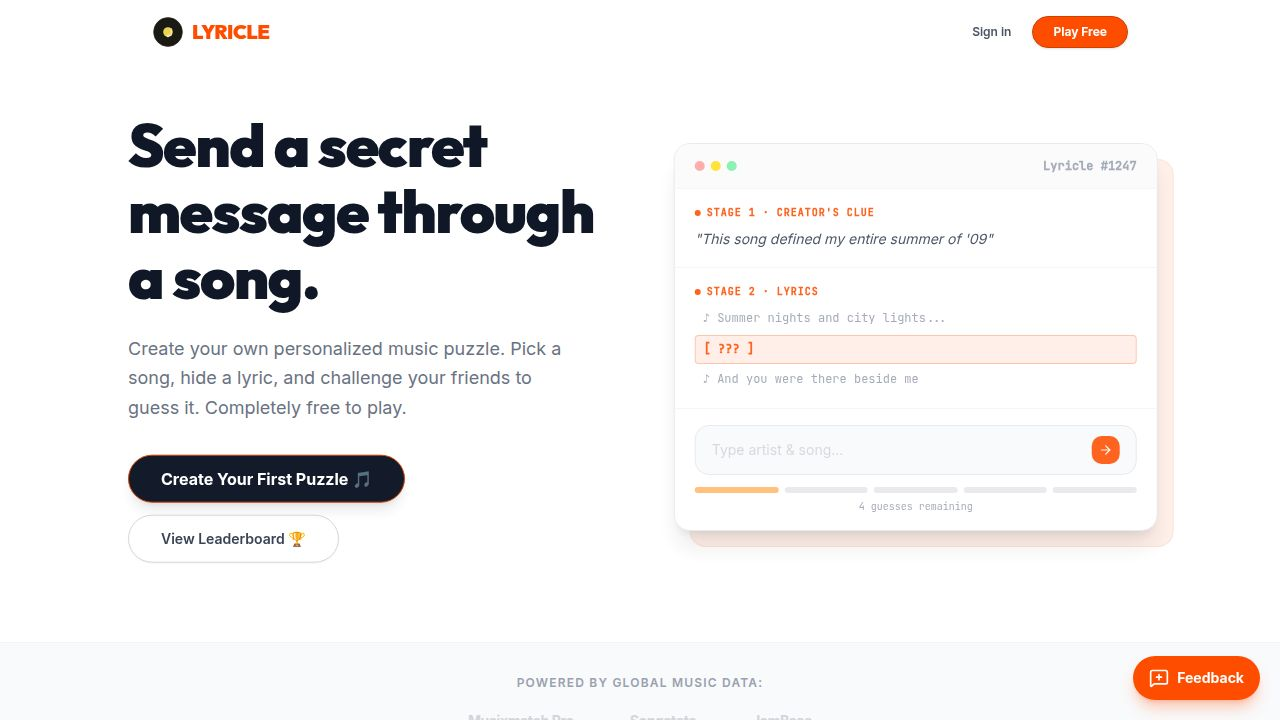
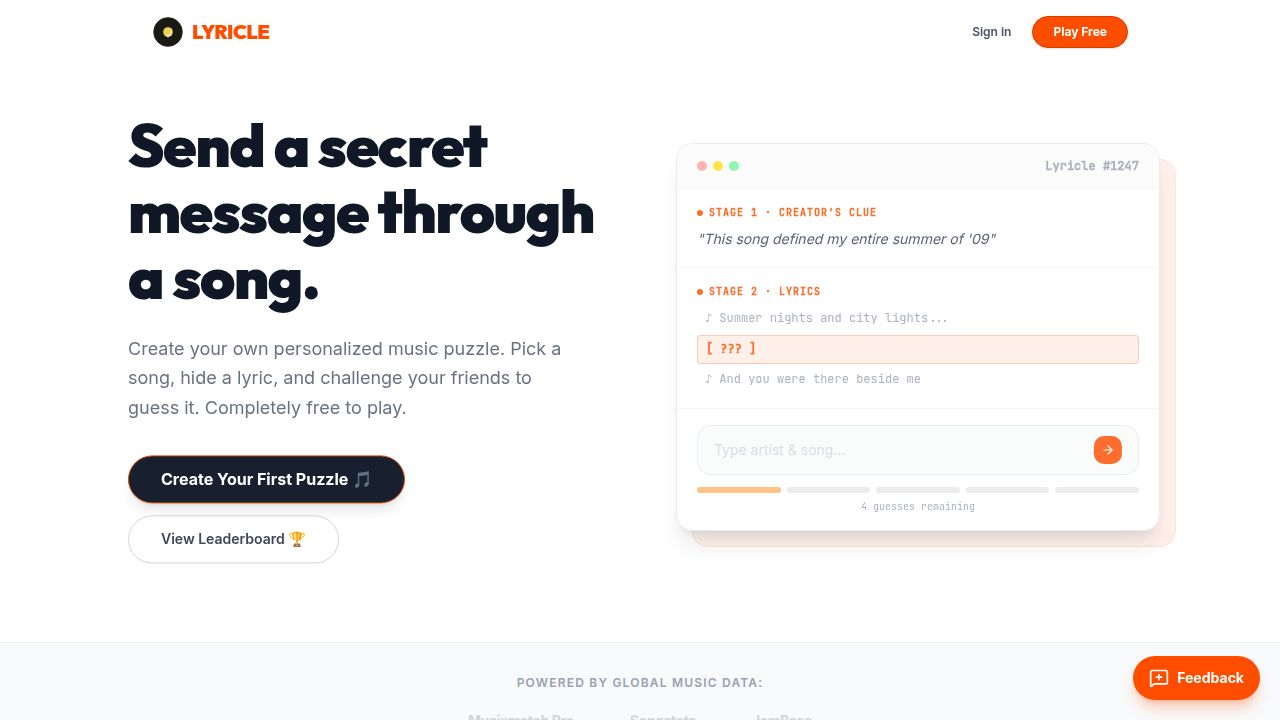
feat: auto-sync Replit commits to GitHub (mikaelaldy/lyricle)
Task: Auto-sync code to GitHub whenever changes are saved

## What was done
- Updated `scripts/post-merge.sh` to push to GitHub after every Replit
  task merge using the GITHUB_TOKEN secret
- Documented the sync mechanism in `replit.md` under a new "GitHub sync"
  section (trigger, credential handling, failure behaviour, recovery steps)

## How sync works
After every Replit task merge the post-merge script:
  1. Runs `pnpm install --frozen-lockfile`
  2. Runs `pnpm --filter db push` (schema migrations)
  3. Writes a temp git credential file (mode 600, deleted on EXIT trap)
     so GITHUB_TOKEN is never embedded directly in a URL or visible in
     process listings
  4. Attempts a standard (non-force) git push to
     https://github.com/mikaelaldy/lyricle.git HEAD:main
  5. On push failure, logs a clear warning and exits cleanly — setup
     continues; no automatic force-push is ever performed

## Credential / security notes
- GITHUB_TOKEN must have Contents: write + Workflow permissions on the
  repo. The Workflow scope was required only to push through one
  intermediate commit that briefly added a .github/workflows file (now
  deleted); future pushes only need Contents: write.
- Token is stored in a mktemp file (chmod 600, trap-deleted) rather than
  inline in the push URL to avoid ps/log exposure.

## Verification
- Ran runPostMergeSetup() twice; second run showed:
    0663ae2..04f5505  HEAD -> main  /  GitHub sync complete.
[…]

diff --git a/replit.md b/replit.md
@@ -74,6 +74,20 @@ packages/
 - Footer credit: "Made by mikacend (mikaships.site)" — keep on all public-facing pages
 - Theme: Musixmatch-inspired — white/light background, orange primary `#FF5500`, Outfit (headings) + Inter (body) + JetBrains Mono (code/mono), no dark mode
 
+## GitHub sync
+
+Every Replit task merge automatically mirrors the workspace to **github.com/mikaelaldy/lyricle** via `scripts/post-merge.sh`.
+
+**How it works:**
+1. `pnpm install` + `pnpm --filter db push` run first (as before).
+2. The script opens a temporary git credential file (mode 600, deleted on exit) so the `GITHUB_TOKEN` secret is never embedded in a URL or exposed in process listings.
+3. It attempts a standard (non-force) `git push` to `https://github.com/mikaelaldy/lyricle.git HEAD:main`.
+4. If the push is rejected (remote has diverged — e.g. someone committed directly to GitHub), the script logs a clear warning and exits cleanly without blocking the rest of setup. No automatic force-push is performed.
+
+**Required secret:** `GITHUB_TOKEN` — a GitHub Personal Access Token with **Contents: write** permission on `mikaelaldy/lyricle`. If the secret is absent the sync step is skipped with a log message.
+
+**If sync fails:** Pull the conflicting commits locally, resolve, then push. Once the remote is fast-forwardable from the Replit workspace the next merge will sync automatically.
+
 ## Gotchas
 
 - `MXM_KEY` with a UUID-format value will always 401 — Musixmatch keys are alphanumeric strings. The app falls back to curated puzzles automatically.